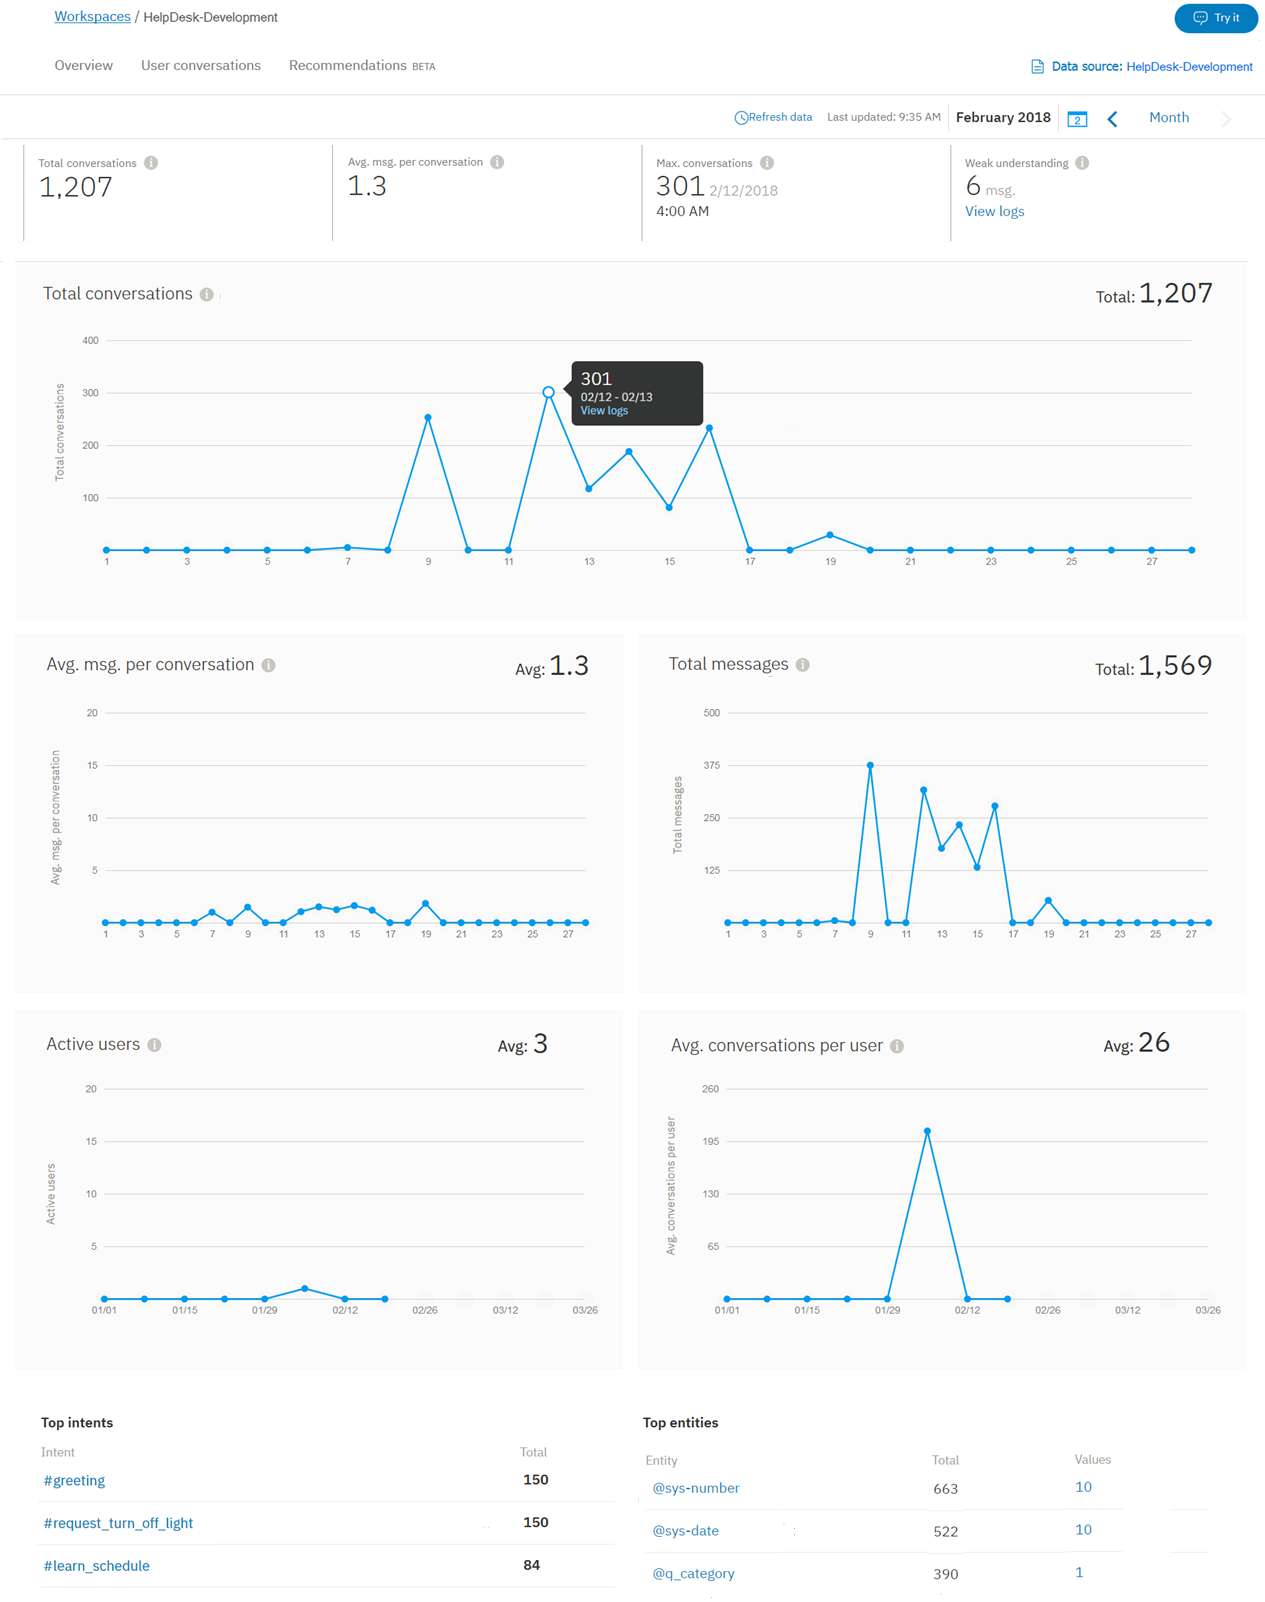
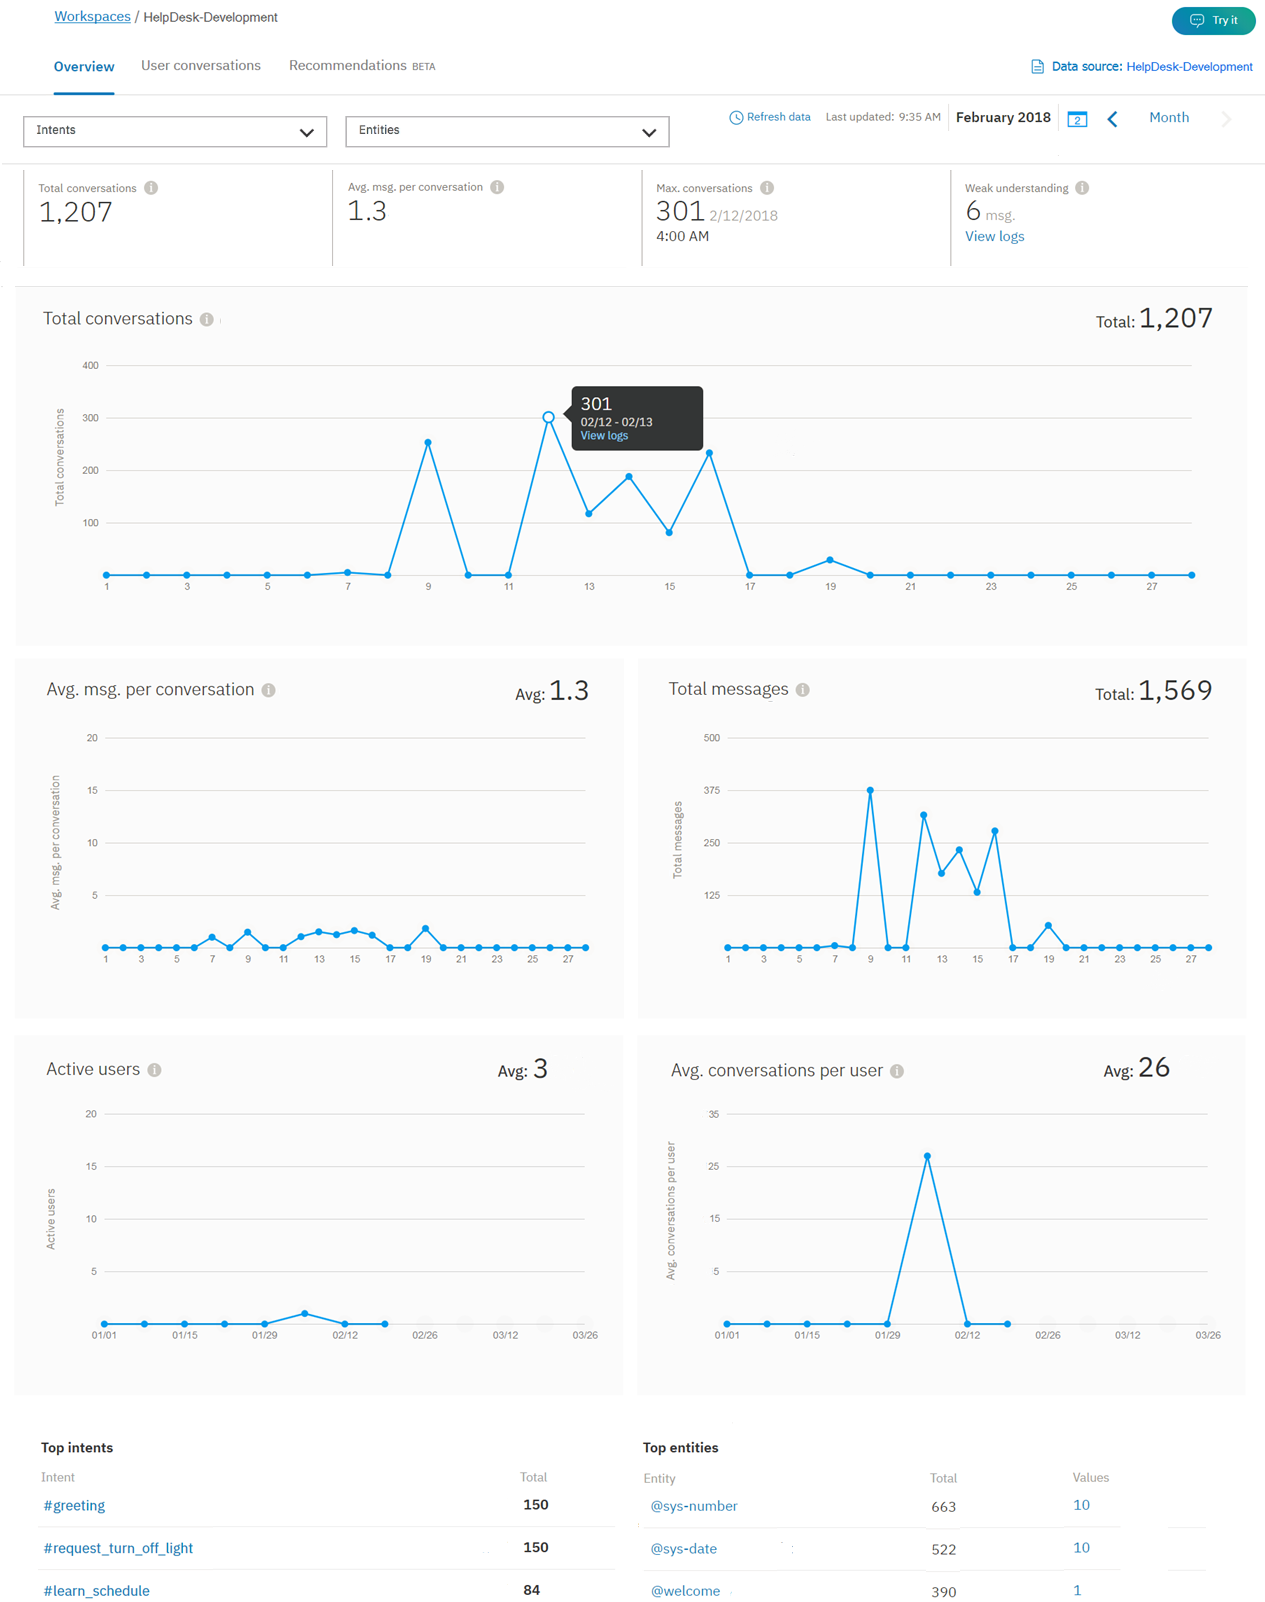
Overview Intent/Entity filter

diff --git a/logs_oview.md b/logs_oview.md
@@ -2,7 +2,7 @@
 
 copyright:
   years: 2015, 2018
-lastupdated: "2018-05-10"
+lastupdated: "2018-05-24"
 
 ---
 
@@ -37,6 +37,10 @@ To open the Overview page, select **Overview** in the navigation bar.
 
 ## Controls
 The top part of the page includes the following controls:
+
+* *Intents* and *Entities* filters - Use either of these drop-down filters to show data for a specific intent or entity in the skill.
+
+  **Important** - The intent and entities filters are populated by the intents and entities in the ***skill***, and not what is in the data source. If you have [selected a data source](logs.html#deploy_id) other than the skill, you might not see an intent or entity from your data source logs as an option in the filters, unless those intents and entities are also in the skill.
 
 * *Refresh data* - Allows you to refresh the Overview page statistics immediately. The Overview page shows when the data that it displays was last updated. You can select **Refresh data** if you think that newer data might be available.
 * Time period control - Use this control to choose the period for which data is displayed. This control affects all data shown on the page: not just the number of conversations displayed in the graph, but also the statistics displayed along with the graph, and the lists of top intents and entities.
